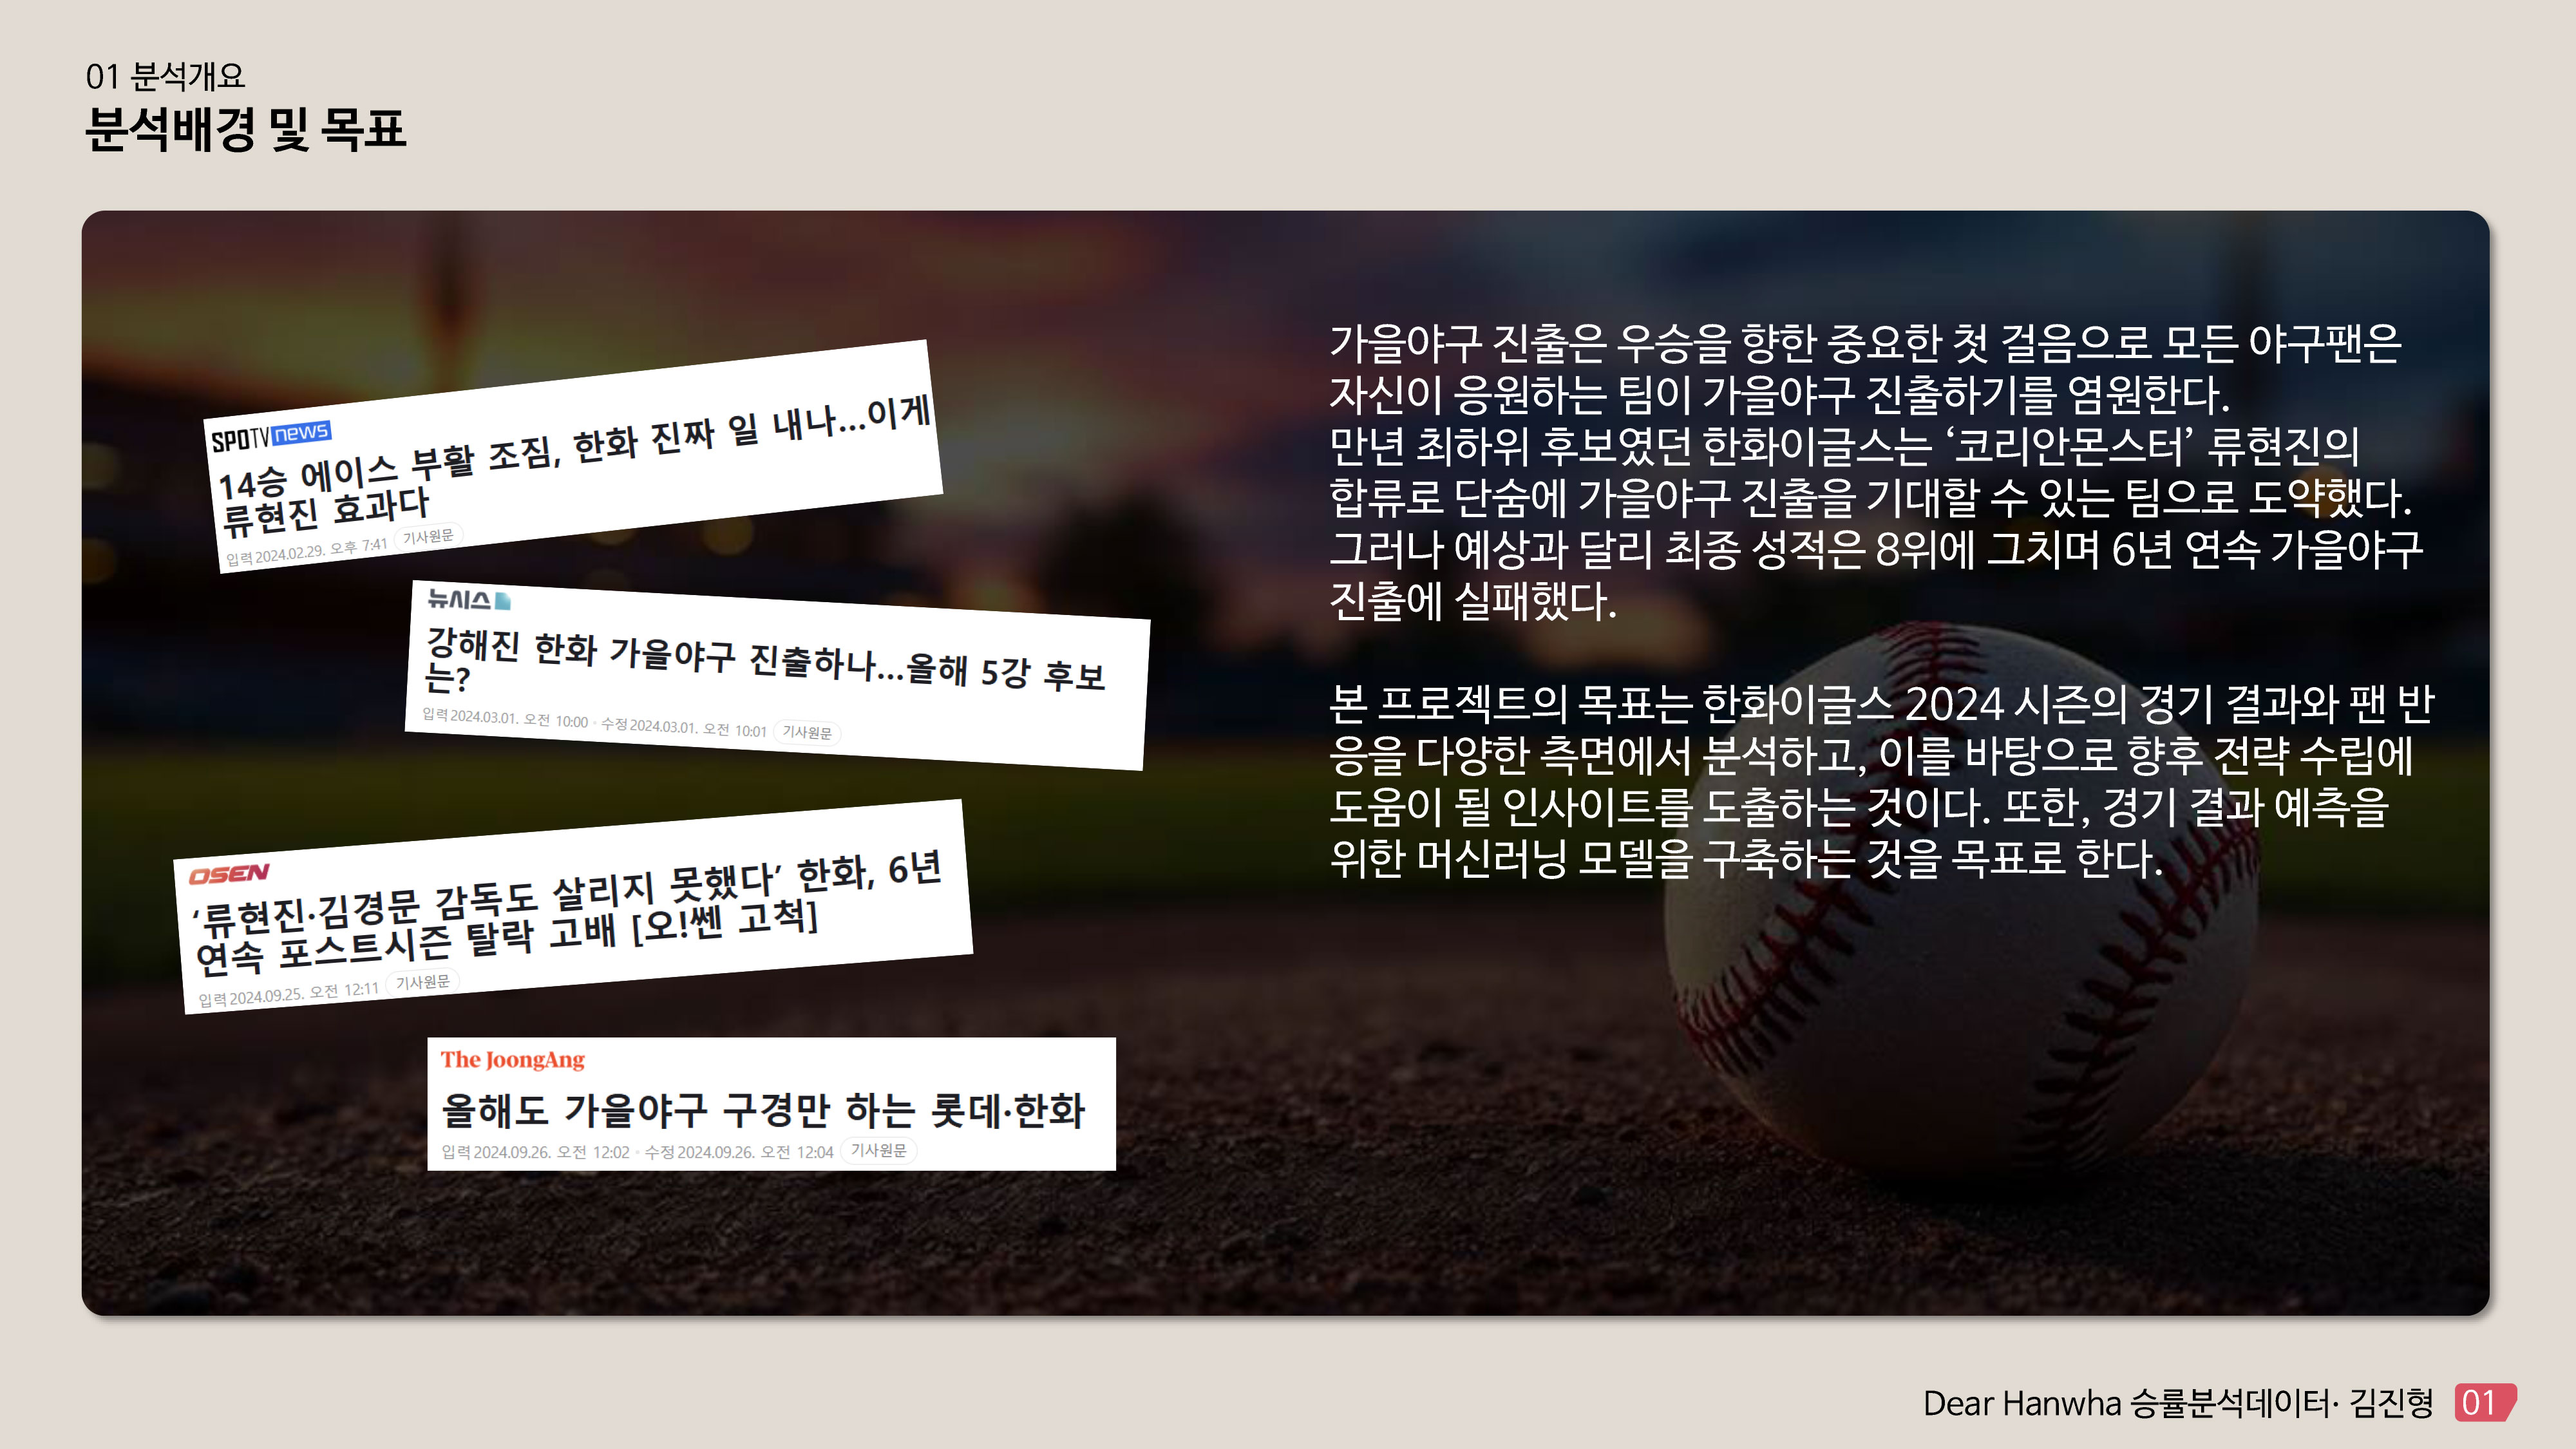
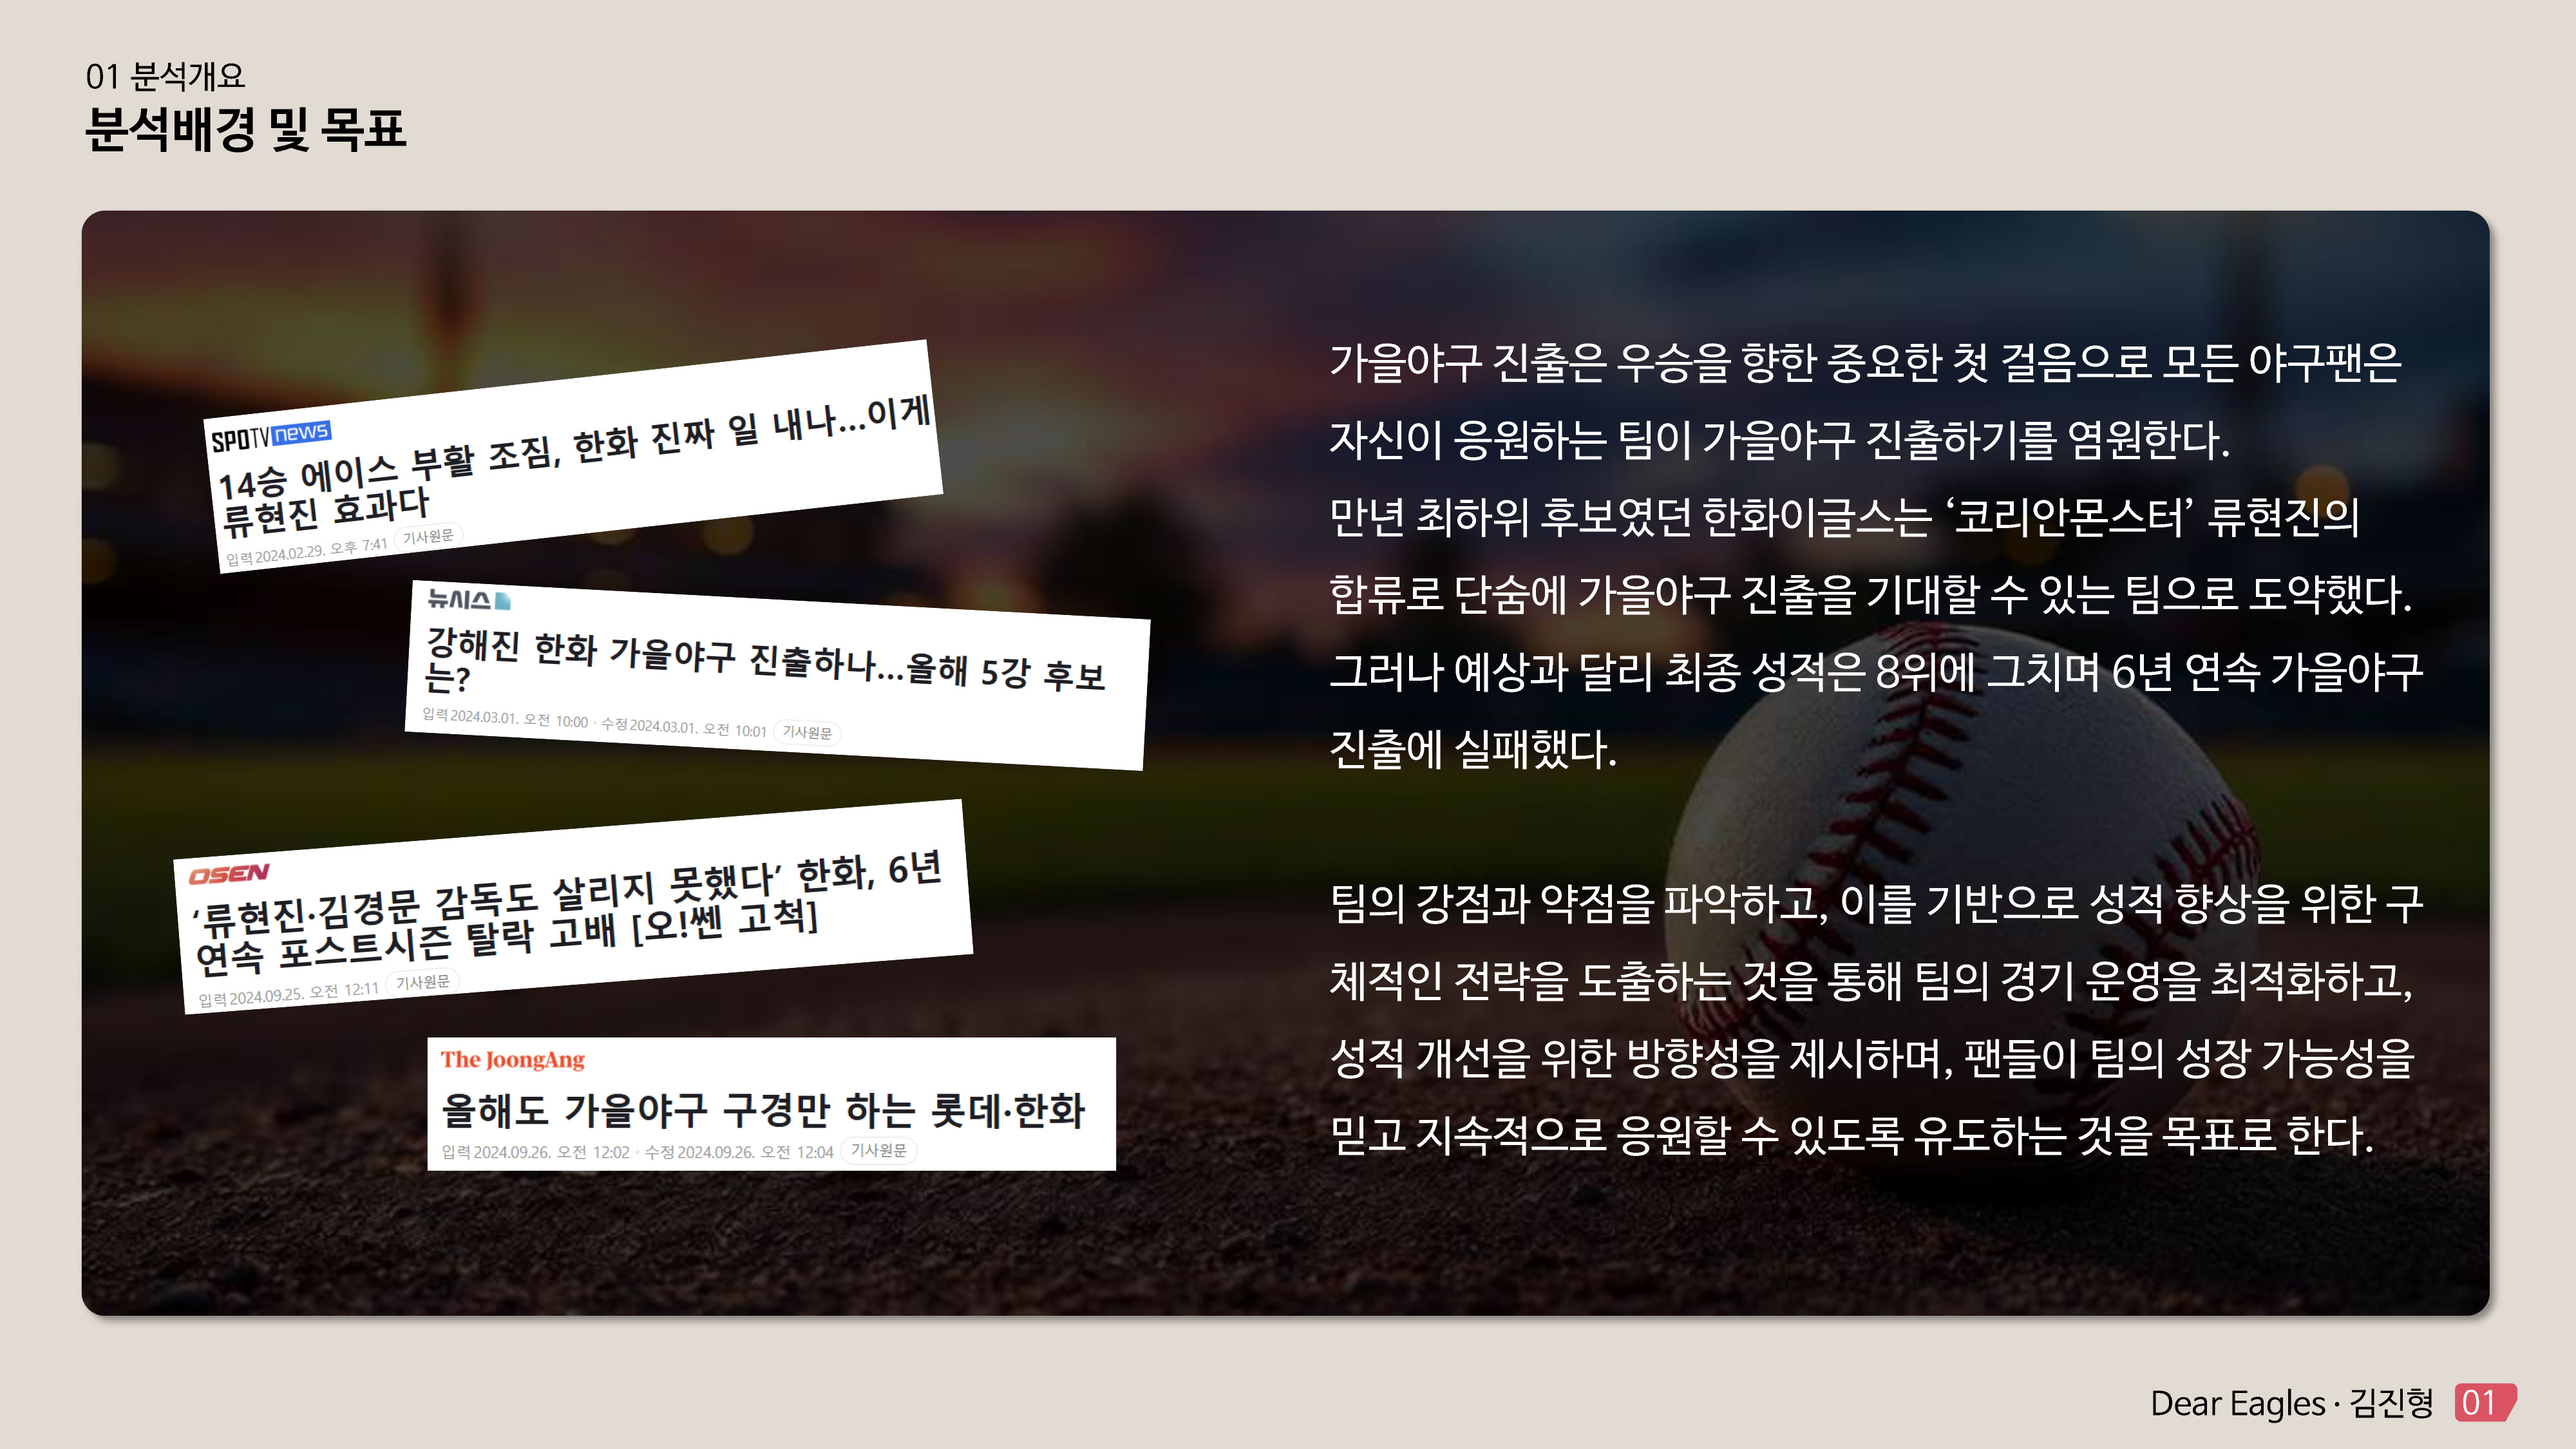
update

diff --git a/_posts/2020-02-28-sample-markdown.md b/_posts/2020-02-28-sample-markdown.md
@@ -6,7 +6,7 @@ tags: [한화이글스, 머신러닝, 승률, tableau, figma]
 ---
 
 {: .box-success}
-한화 이글스의 시즌 성적과 관련된 인스타그램 게시글 및 댓글 데이터를 크롤링하여, 승률에 대한 탐색적 데이터 분석(EDA)과 SNS 분석을 통해 승리가 마케팅에 미치는 긍정적인 영향을 분석하고, 승리 경기 결과 예측 서비스와 시각화 분석 자료를 사용자에게 제공
+한화 이글스의 시즌 성적과 관련된 인스타그램 게시글 및 댓글 데이터를 크롤링하여 승률에 대한 탐색적 데이터 분석(EDA)과 SNS 분석을 통해 팀의 강점과 약점을 파악하여 성적 향상을 위한 구체적인 전략을 도출하고, 경기 결과 예측 서비스와 시각화 분석 자료를 제공
 
 
 {: .box-note}
@@ -21,6 +21,7 @@ tags: [한화이글스, 머신러닝, 승률, tableau, figma]
 ![이미지7]({{'assets/img/E7.jpg'| relative_url }})
 ![이미지8]({{'assets/img/E8.jpg'| relative_url }})
 ![이미지9]({{'assets/img/E9.jpg'| relative_url }})
+![이미지10]({{'assets/img/E10.jpg'| relative_url }})
 
 
 

diff --git a/_posts/2020-02-26-flake-it-till-you-make-it.md b/_posts/2020-02-26-flake-it-till-you-make-it.md
@@ -22,4 +22,4 @@ tags: [판례, 법률, 텍스트분석, KoBERT, streamlit]
 ![이미지8]({{'assets/img/P8.jpg'| relative_url }})
 ![이미지9]({{'assets/img/P9.jpg'| relative_url }})
 ![이미지10]({{'assets/img/P10.jpg'| relative_url }})
-![이미지11]({{'assets/img/P11.jpg'| relative_url }})
+
